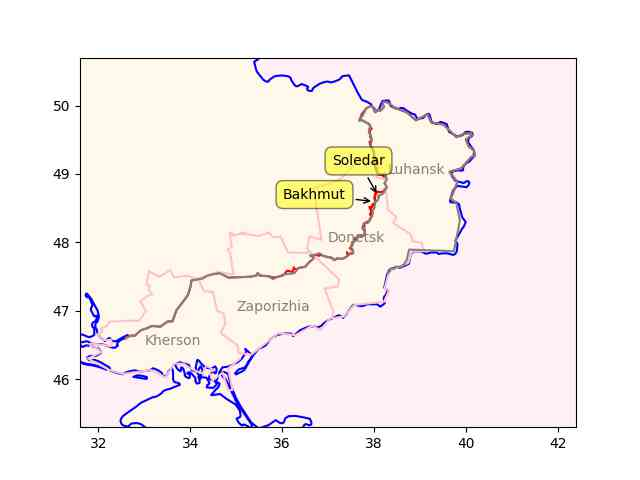
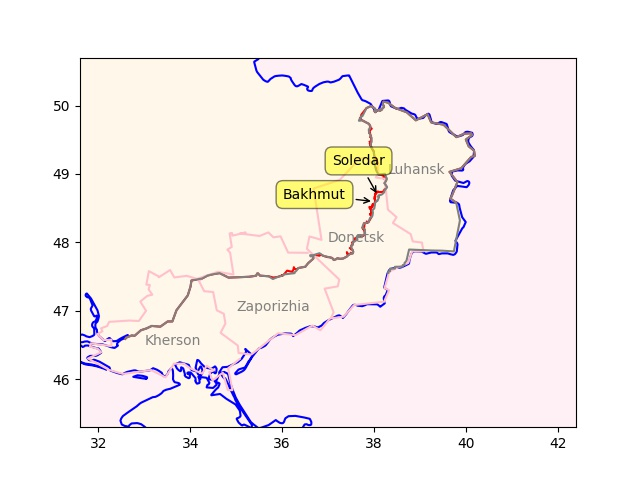
--

diff --git a/en/mbl/2023/tst.md b/en/mbl/2023/tst.md
@@ -6,19 +6,6 @@ pd.set_option('display.max_columns', None)
 ```
 
 
-```python
-u.yf_eps("DIS")
-```
-
-```text
-Out[1]: 
-2022-01-01    47.349
-2022-04-02    46.624
-2022-07-02    46.022
-2022-10-01    45.299
-Name: longTermDebt, dtype: float64
-```
-
 
 
 
@@ -30,11 +17,10 @@ Name: longTermDebt, dtype: float64
 ```python
 # soledar, bakhmut
 geo = [['Soledar',48.68207521521989, 38.08963574290512,(5,20)],
-       ['Bakhmut',48.59681687669557, 37.99571812076628,(-20,0)],
-       ['Op',48.112784862705126, 37.71899972795263,(20,-20)]
+       ['Bakhmut',48.59681687669557, 37.99571812076628,(-20,0)]
        ]
 u.sm_plot_ukr('ukrdata/fl-0116.csv','ukrdata/fl-221115.csv',geo)
-plt.savefig('/tmp/out.png')
+plt.savefig('ukr-1.jpg')
 ```
 
 
